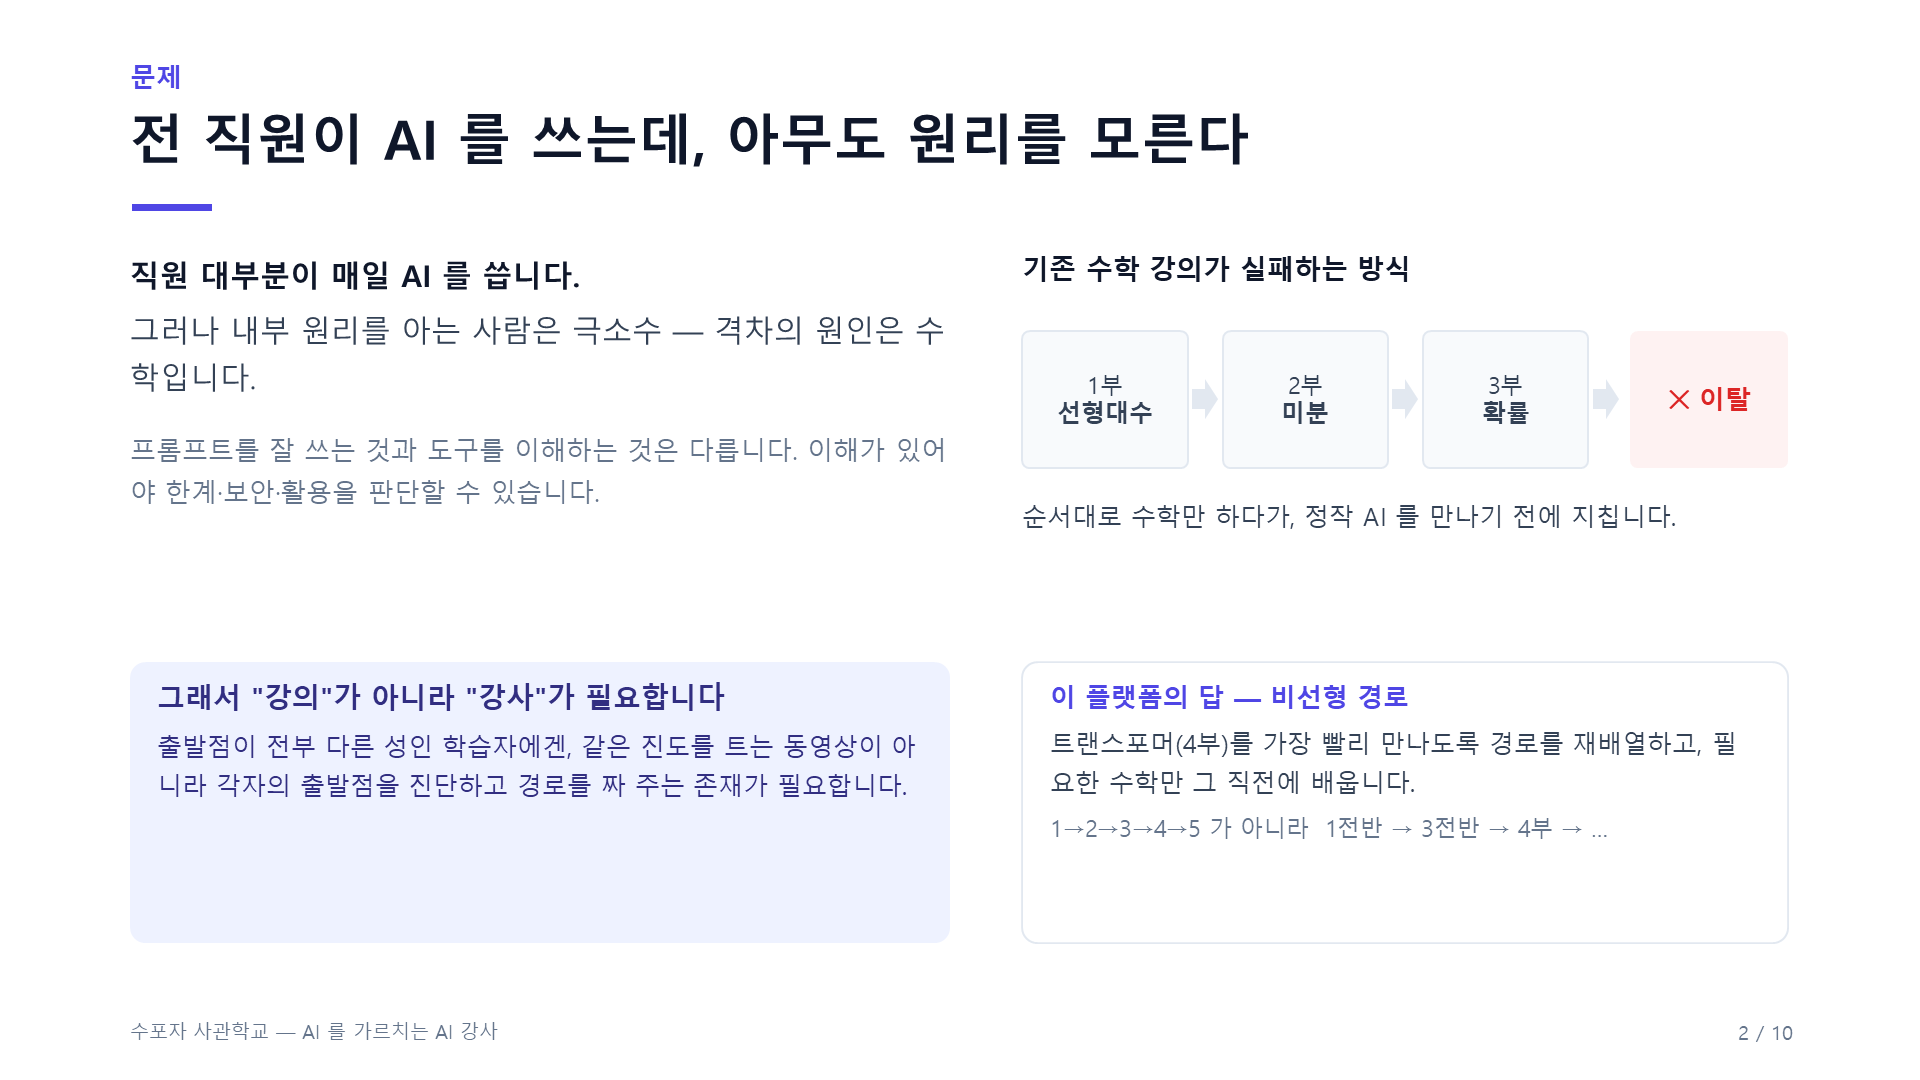
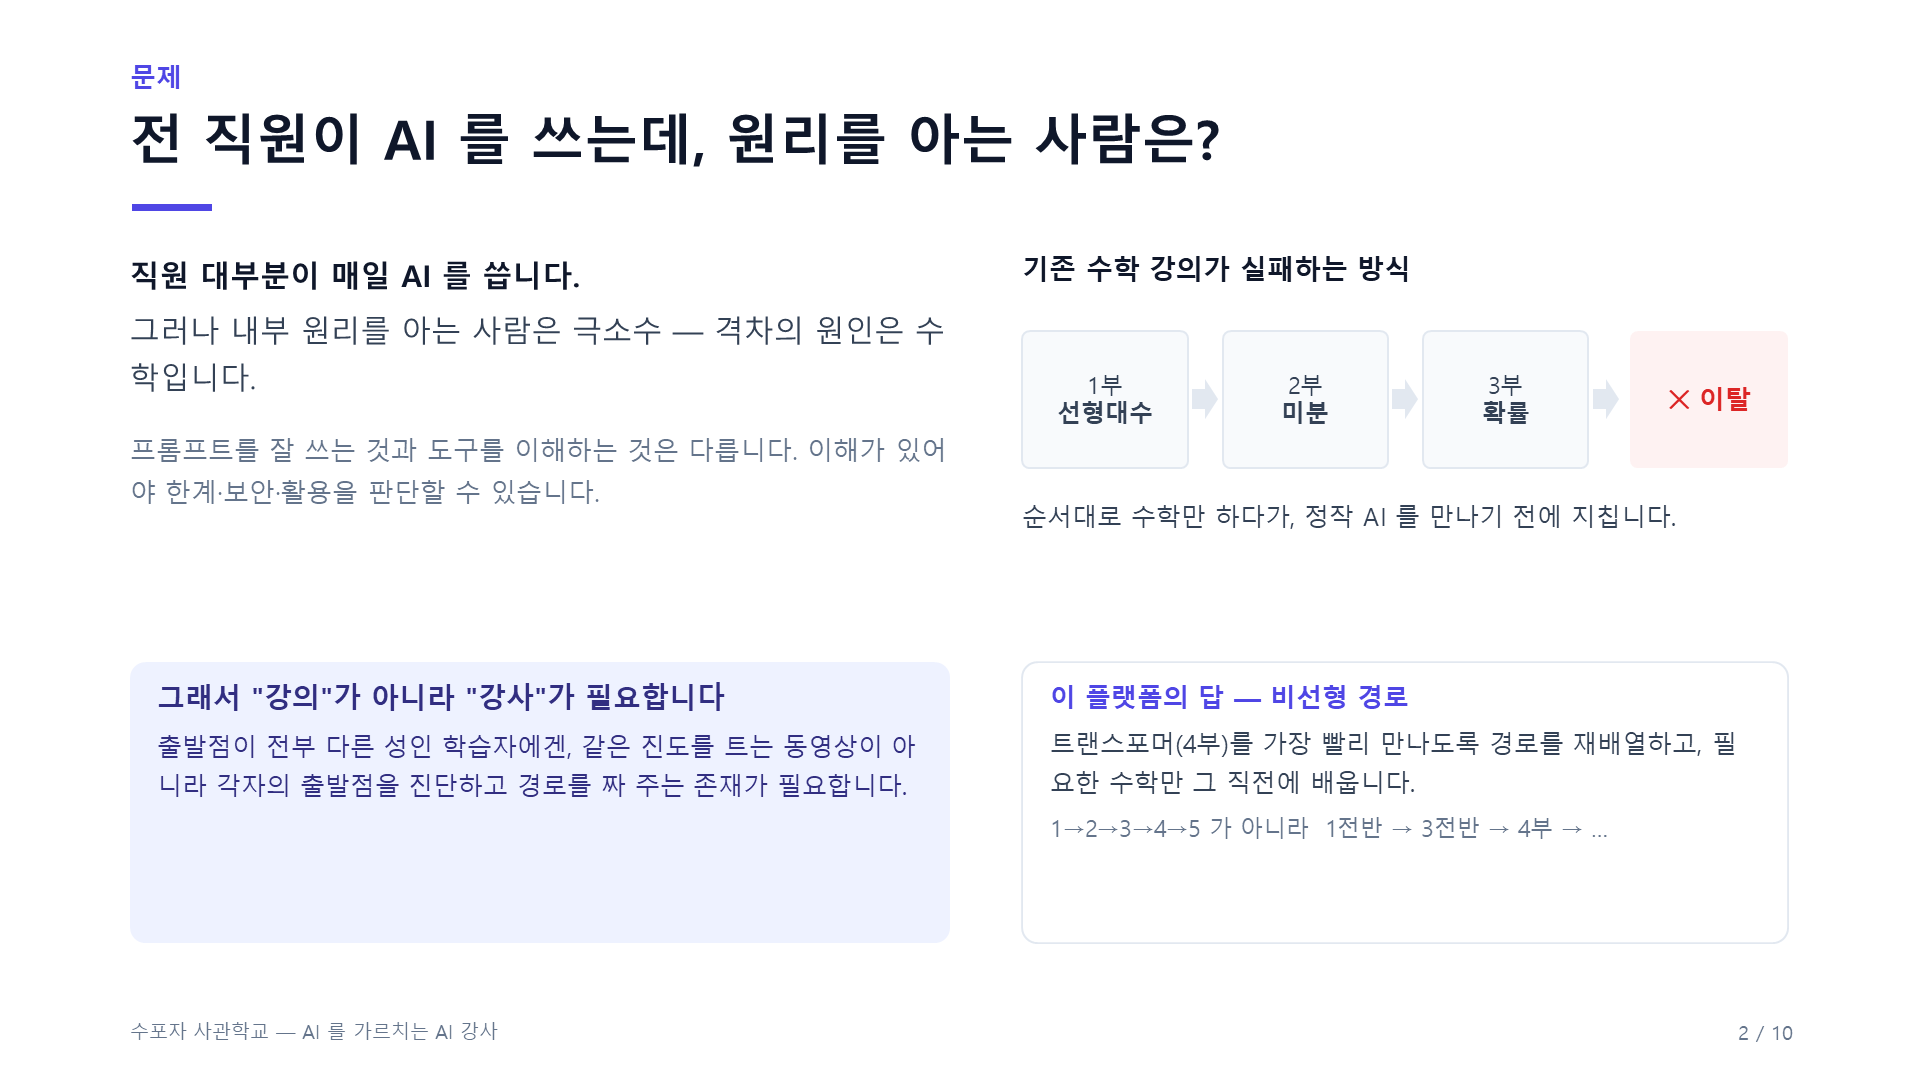
fix(hackathon): 덱 슬라이드 톤·발표자 큐 정리 — ② 제목 완화, ④·⑤ 큐 제거
- ② 제목: "아무도 원리를 모른다" → "원리를 아는 사람은?" (사용자 pptx 수정을 정본에 역반영)
- ④ "심사위원이 직접 진단 → …(와우 포인트 1)" 슬라이드에서 삭제 → 발표자 노트로 이동
- ⑤ "(와우 포인트 2)"·"심사위원 문장으로" → "당신의 문장으로 라이브 시연" (큐는 노트로)
- 원칙 명문화: 청중용 슬라이드에 발표자 큐 노출 금지 — pptx 재생성 + slides/ 렌더 갱신

Changed region(s): [[0.375, 0.0917, 0.6562, 0.1528]]

diff --git a/scripts/build-pitch-deck.py b/scripts/build-pitch-deck.py
@@ -195,7 +195,7 @@ notes(s, '발표 운영: 전체 5분이면 슬라이드 ④·⑤는 슬라이드
 
 # ═════════════════════════════ ② 문제 ═════════════════════════════
 s = new_slide()
-chrome(s, 2, '문제', '전 직원이 AI 를 쓰는데, 아무도 원리를 모른다')
+chrome(s, 2, '문제', '전 직원이 AI 를 쓰는데, 원리를 아는 사람은?')
 tf = box(s, Inches(0.9), Inches(1.75), Inches(5.7), Inches(3.4))
 para(tf, [('직원 대부분이 매일 AI 를 씁니다.', {'bold': True, 'color': INK})], size=15, first=True, line=1.3)
 para(tf, '그러나 내부 원리를 아는 사람은 극소수 — 격차의 원인은 수학입니다.',
@@ -277,9 +277,8 @@ tf = box(s, Inches(7.05), Inches(4.42), Inches(5.4), Inches(1.9))
 para(tf, '② 경로가 다시 그려지고, 이유가 화면에 나옵니다', size=12.5, color=INK, bold=True, first=True)
 para(tf, '실측 예시 — 벡터·확률은 기억, 미분·log 는 리셋된 직장인: 106챕터 중 55챕터 · 31.9시간 경로로 압축, 아는 단계는 "빠른 복습"으로 접힘.',
      size=11.5, color=BODY, space_before=5, line=1.3)
-para(tf, '심사위원이 직접 진단 → 그 자리에서 "그 사람의 지도"가 됩니다 (와우 포인트 1).',
-     size=11.5, color=INDIGO, bold=True, space_before=5, line=1.3)
-notes(s, '시연에서 임원이 직접 진단 — "왜 이 경로냐"는 질문에 화면의 근거(관문 통과/미통과)로 답한다. 결정은 규칙이므로 같은 답이 항상 재현된다.')
+notes(s, '시연에서 임원이 직접 진단 — 그 자리에서 "그 사람의 지도"가 되는 순간이 와우 포인트 1. '
+         '"왜 이 경로냐"는 질문에 화면의 근거(관문 통과/미통과)로 답한다. 결정은 규칙이므로 같은 답이 항상 재현된다.')
 
 # ═════════════════════════════ ⑤ 데모 2 — 라이브 투어 ═════════════════════════════
 s = new_slide()
@@ -306,10 +305,10 @@ c = card(s, x, y + Inches(0.05), CW, CH - Inches(0.1), fill=INDIGO, line_c=None)
 tf = c.text_frame
 tf.margin_left = tf.margin_right = Inches(0.2)
 tf.vertical_anchor = MSO_ANCHOR.MIDDLE
-para(tf, '발표에선 심사위원 문장으로 라이브', size=13, color=WHITE, bold=True, first=True, line=1.25)
-para(tf, '다섯 화면이 1·3·5부 수학과 1:1 — 커리큘럼이 곧 ChatGPT 해부도입니다 (와우 포인트 2).',
+para(tf, '당신의 문장으로 라이브 시연', size=13, color=WHITE, bold=True, first=True, line=1.25)
+para(tf, '다섯 화면이 1·3·5부 수학과 1:1 — 커리큘럼이 곧 ChatGPT 해부도입니다.',
      size=12, color=RGBColor.from_string('E0E7FF'), space_before=8, line=1.3)
-notes(s, '말 노트: "본부장님 문장으로 라이브 시연" — 토큰화(ch2) → 임베딩(ch3) → 어텐션(ch6) → 확률(ch9) → temperature(ch12). '
+notes(s, '말 노트: "본부장님 문장으로 라이브 시연"이 와우 포인트 2 — 토큰화(ch2) → 임베딩(ch3) → 어텐션(ch6) → 확률(ch9) → temperature(ch12). '
          '각 컷이 1·3·5부 수학과 1:1. 5분 발표에선 이 슬라이드 대신 실물 시연.')
 
 # ═════════════════════════════ ⑥ 완전 로컬 ═════════════════════════════

diff --git a/docs/hackathon/11_pitch_deck.md b/docs/hackathon/11_pitch_deck.md
@@ -15,7 +15,7 @@
 - 부제: "수학을 포기했던 직원도, ChatGPT 의 내부까지"
 - 비주얼: 포털 경로 지도 스크린샷 (배경 흐리게)
 
-### ② 문제 — 전 직원이 AI 를 쓰는데, 아무도 원리를 모른다
+### ② 문제 — 전 직원이 AI 를 쓰는데, 원리를 아는 사람은?
 - 직원 대부분이 매일 AI 사용 — 그러나 원리 이해는 극소수. 원인: **수학**
 - 기존 강의의 실패: 1→2→3 순서로 수학만 하다 **AI 를 만나기 전에 지친다**
 - 말 노트: "프롬프트를 잘 쓰는 것과 도구를 이해하는 것은 다릅니다 — 이해가 있어야 한계·보안·활용을 판단합니다."
@@ -31,7 +31,7 @@
 
 ### ⑤ 데모 2 — 당신의 문장이 ChatGPT 안에서 움직인다 (라이브 투어)
 - 비주얼: 토큰화 → 임베딩 → 어텐션 히트맵 → 다음 단어 확률 → temperature 5컷 스트립
-- 키 카피: "본부장님 문장으로 라이브 시연" — 와우 포인트 2
+- 키 카피: "당신의 문장으로 라이브 시연" — 와우 포인트 2는 말 노트로(슬라이드엔 발표자 큐 노출 금지)
 - 말 노트: 각 컷이 1·3·5부 수학과 1:1 — "커리큘럼이 곧 ChatGPT 해부도"
 
 ### ⑥ 완전 로컬 — 서버 0 · 비용 ₩0 · 데이터 유출 0

diff --git a/docs/99_history.md b/docs/99_history.md
@@ -22,6 +22,13 @@
   노트북 수 117(2026-07-13) 갱신. 잔재 전수 grep 0건 확인.
 - python-pptx 는 문서 권고대로 임시 폴더 `--target` 설치로 사용(공용 venv 오염 없음 —
   최초 1회 venv 설치분은 제거).
+- (후속) 슬라이드 ② 제목 톤 완화 — 사용자가 pptx 에서 "아무도 원리를 모른다" →
+  "**원리를 아는 사람은?**"으로 직접 수정 → 정본(`build-pitch-deck.py`·`11_pitch_deck.md`)에
+  역반영하고 슬라이드 렌더 갱신(재생성 시에도 유지되도록).
+- (후속 2) **슬라이드에서 발표자 큐 제거** — ④ "심사위원이 직접 진단 → …(와우 포인트 1)" 문구
+  삭제(발표자 노트로 이동), ⑤ "(와우 포인트 2)"·"심사위원 문장으로" → "당신의 문장으로 라이브
+  시연"으로 교체(큐는 노트로). 원칙 명문화: 청중용 슬라이드에 발표자 큐 노출 금지. pptx 재생성
+  + 렌더 갱신.
 
 ### 🔍 10부 편입 후 전 플랫폼 정합성 감사 + 정정 — "복사 잔재" 소탕
 10부 완결 직후 구조(배선·포털 연동)·내용(콘텐츠 표준·수치)을 3갈래로 전수 감사.
